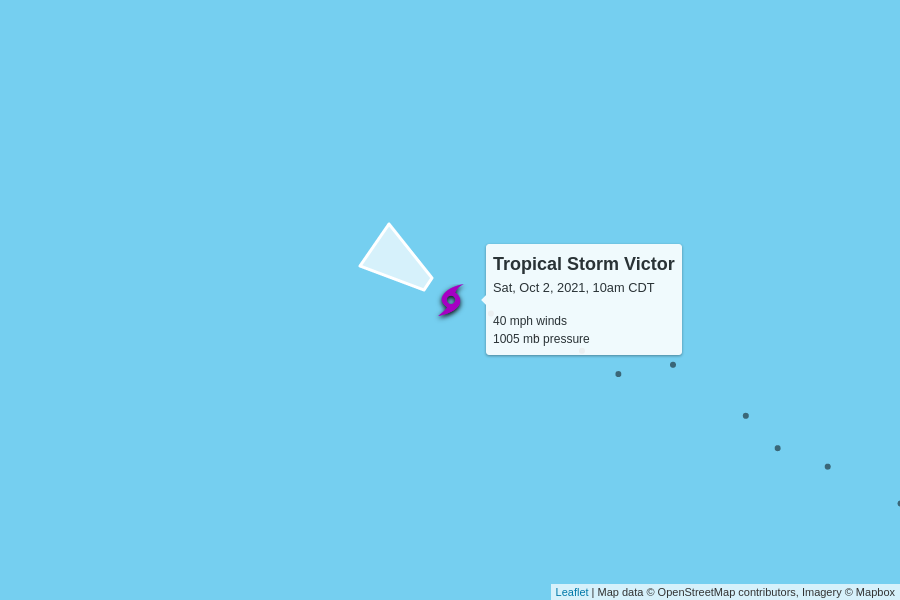
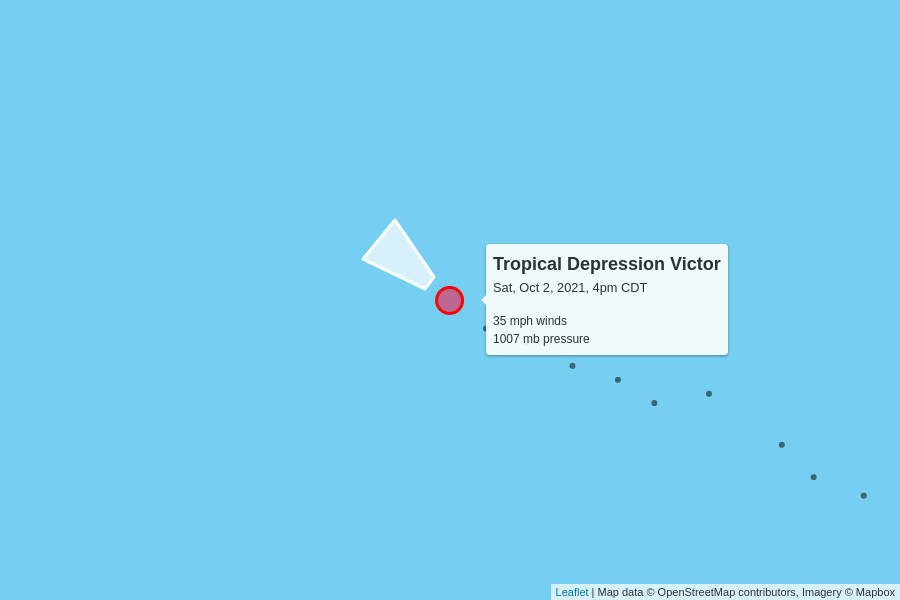
automatic update

diff --git a/docs/index.html b/docs/index.html
@@ -97,10 +97,10 @@
 
     <table>
       <tr>
-        <td colspan="6" class="storm category-4" >
+        <td colspan="6" class="storm category-3" >
           <h2>
-            Hurricane Sam - Category 4
-            <p class="updated">last updated <span data-time>2021-10-02T15:00:00.000Z</span></p>
+            Hurricane Sam - Category 3
+            <p class="updated">last updated <span data-time>2021-10-02T21:00:00.000Z</span></p>
           </h2>
         </td>
       </tr>
@@ -115,12 +115,12 @@
       </tr>
       <tr>
         <td class="spacer"></td>
-        <td>130 mph</td>
-        <td>945 mb</td>
+        <td>125 mph</td>
+        <td>950 mb</td>
         <td>
           17 mph to the northeast
           <br/>
-          <span style="display: inline-block; font-size: 1.5em; transform: rotate(35deg);">↑</span>
+          <span style="display: inline-block; font-size: 1.5em; transform: rotate(40deg);">↑</span>
         </td>
         <td><a href="https://raw.githubusercontent.com/mgwalker/atlantic-hurricanes/main/data/csv/AL182021.csv">AL182021.csv</a></td>
         <td><a href="https://www.nhc.noaa.gov/archive/2021/SAM.shtml?">NHC advisories</a></td>
@@ -143,8 +143,8 @@
       <tr>
         <td colspan="6" class="storm category-0" >
           <h2>
-            Tropical Storm Victor
-            <p class="updated">last updated <span data-time>2021-10-02T15:00:00.000Z</span></p>
+            Tropical Depression Victor
+            <p class="updated">last updated <span data-time>2021-10-02T21:00:00.000Z</span></p>
           </h2>
         </td>
       </tr>
@@ -159,12 +159,12 @@
       </tr>
       <tr>
         <td class="spacer"></td>
-        <td>40 mph</td>
-        <td>1005 mb</td>
+        <td>35 mph</td>
+        <td>1007 mb</td>
         <td>
-          12 mph to the northwest
+          14 mph to the northwest
           <br/>
-          <span style="display: inline-block; font-size: 1.5em; transform: rotate(305deg);">↑</span>
+          <span style="display: inline-block; font-size: 1.5em; transform: rotate(310deg);">↑</span>
         </td>
         <td><a href="https://raw.githubusercontent.com/mgwalker/atlantic-hurricanes/main/data/csv/AL202021.csv">AL202021.csv</a></td>
         <td><a href="https://www.nhc.noaa.gov/archive/2021/VICTOR.shtml?">NHC advisories</a></td>
